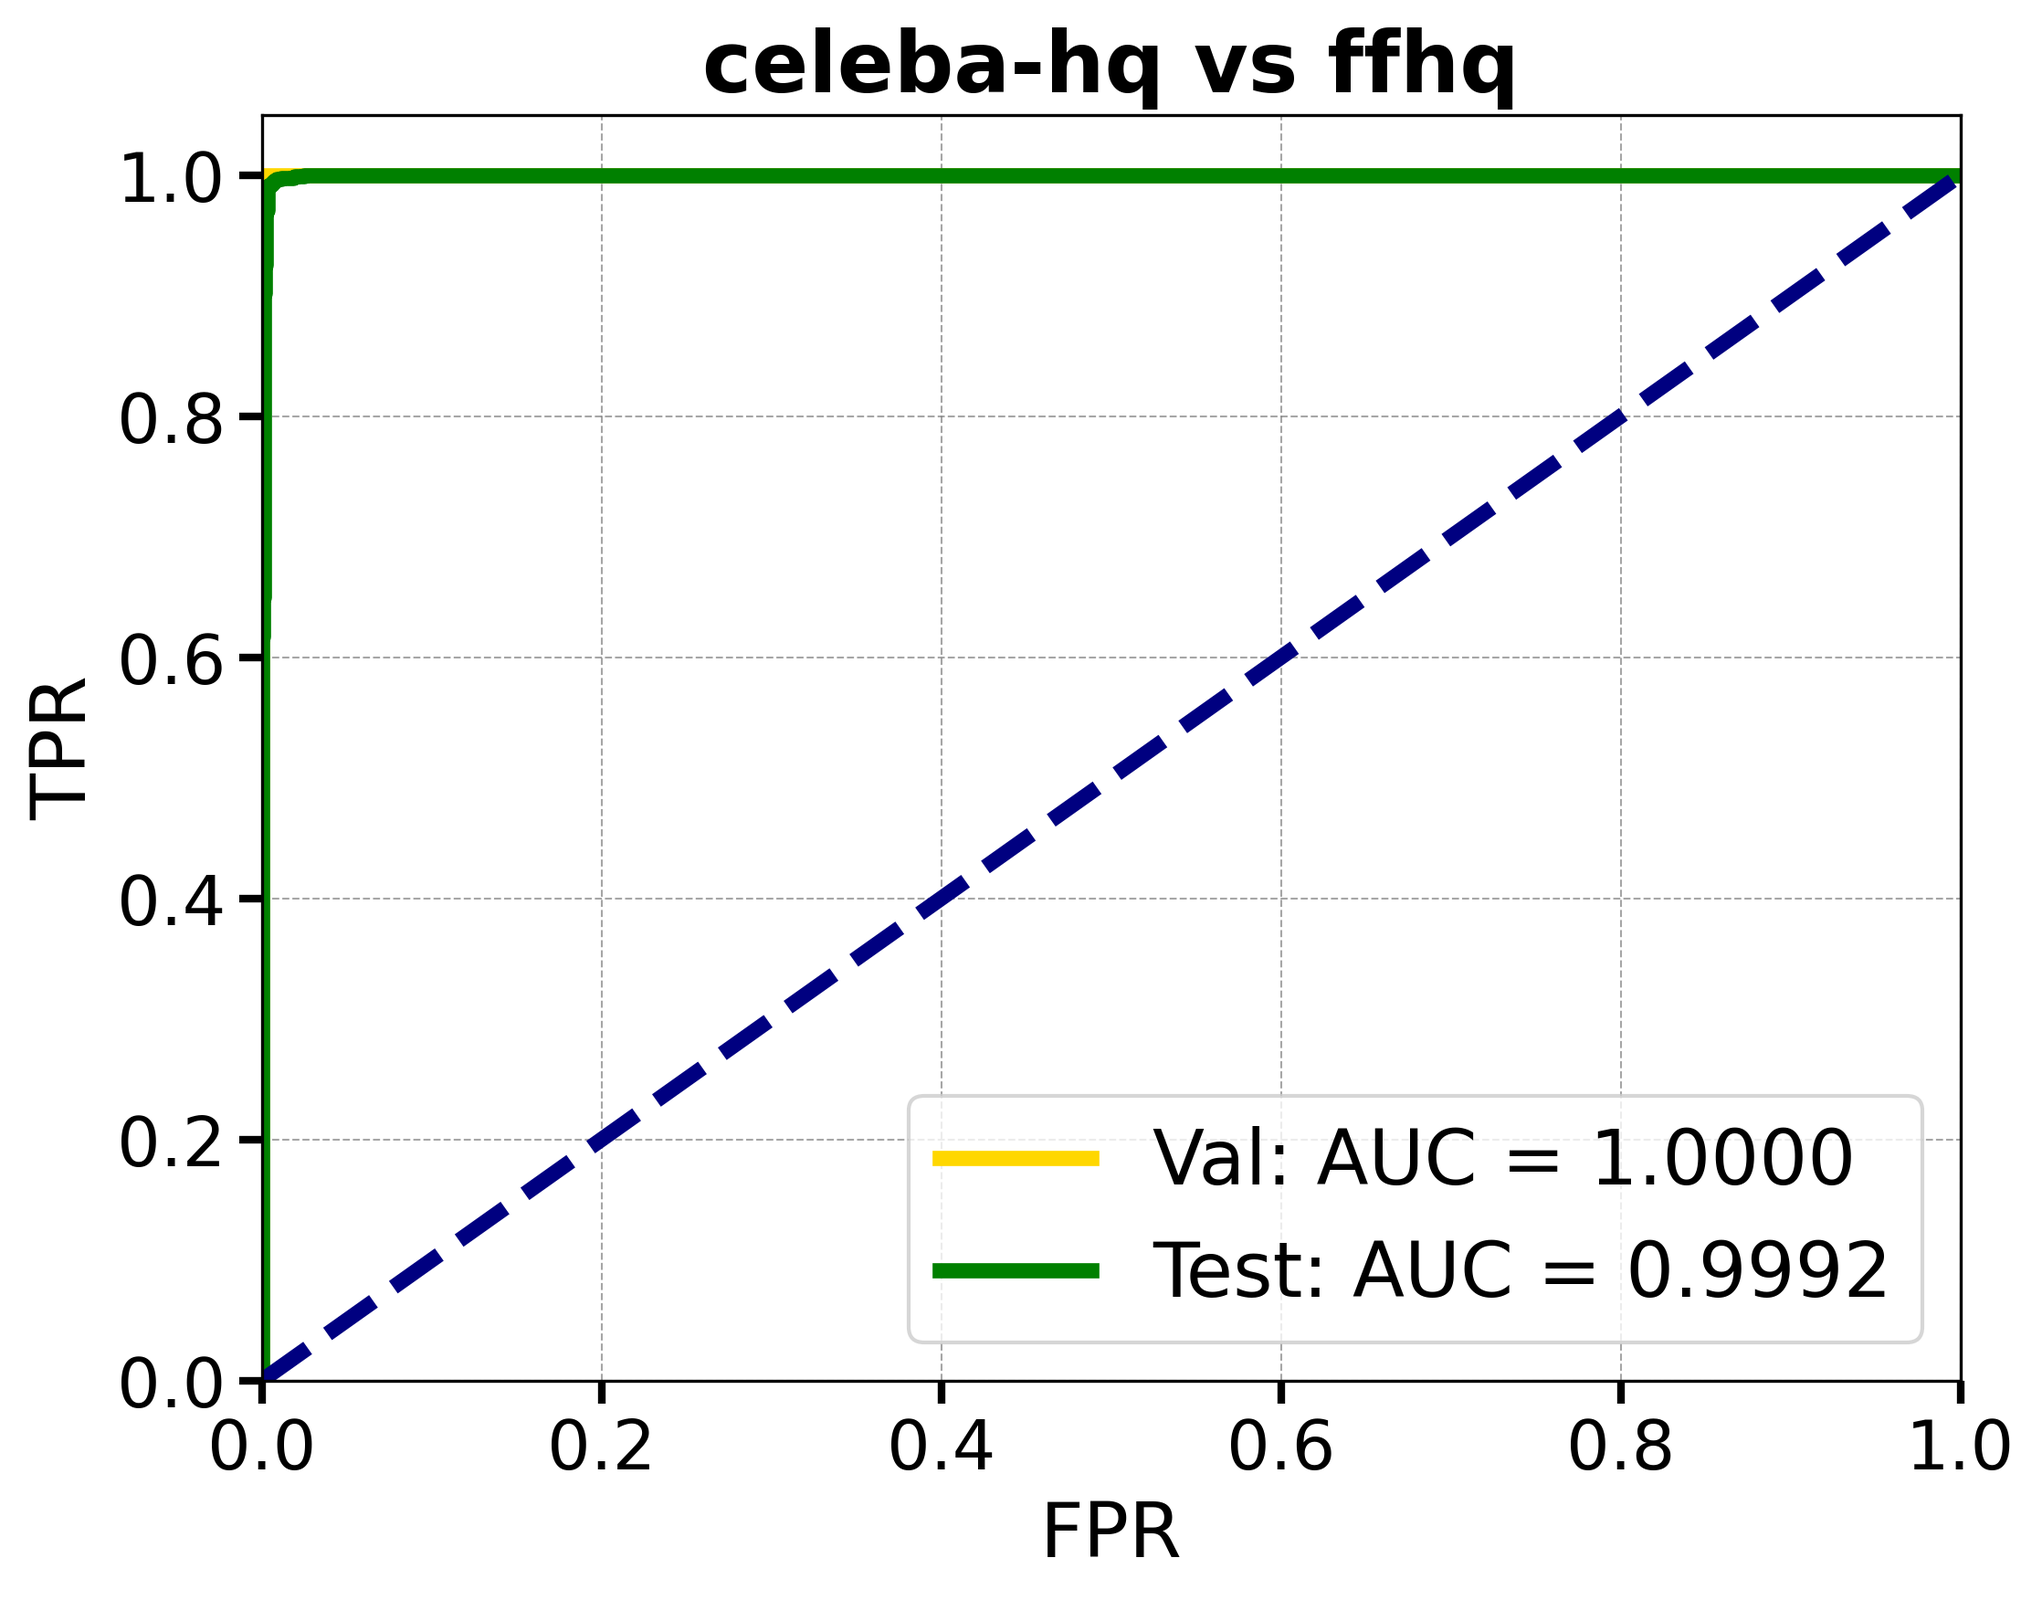
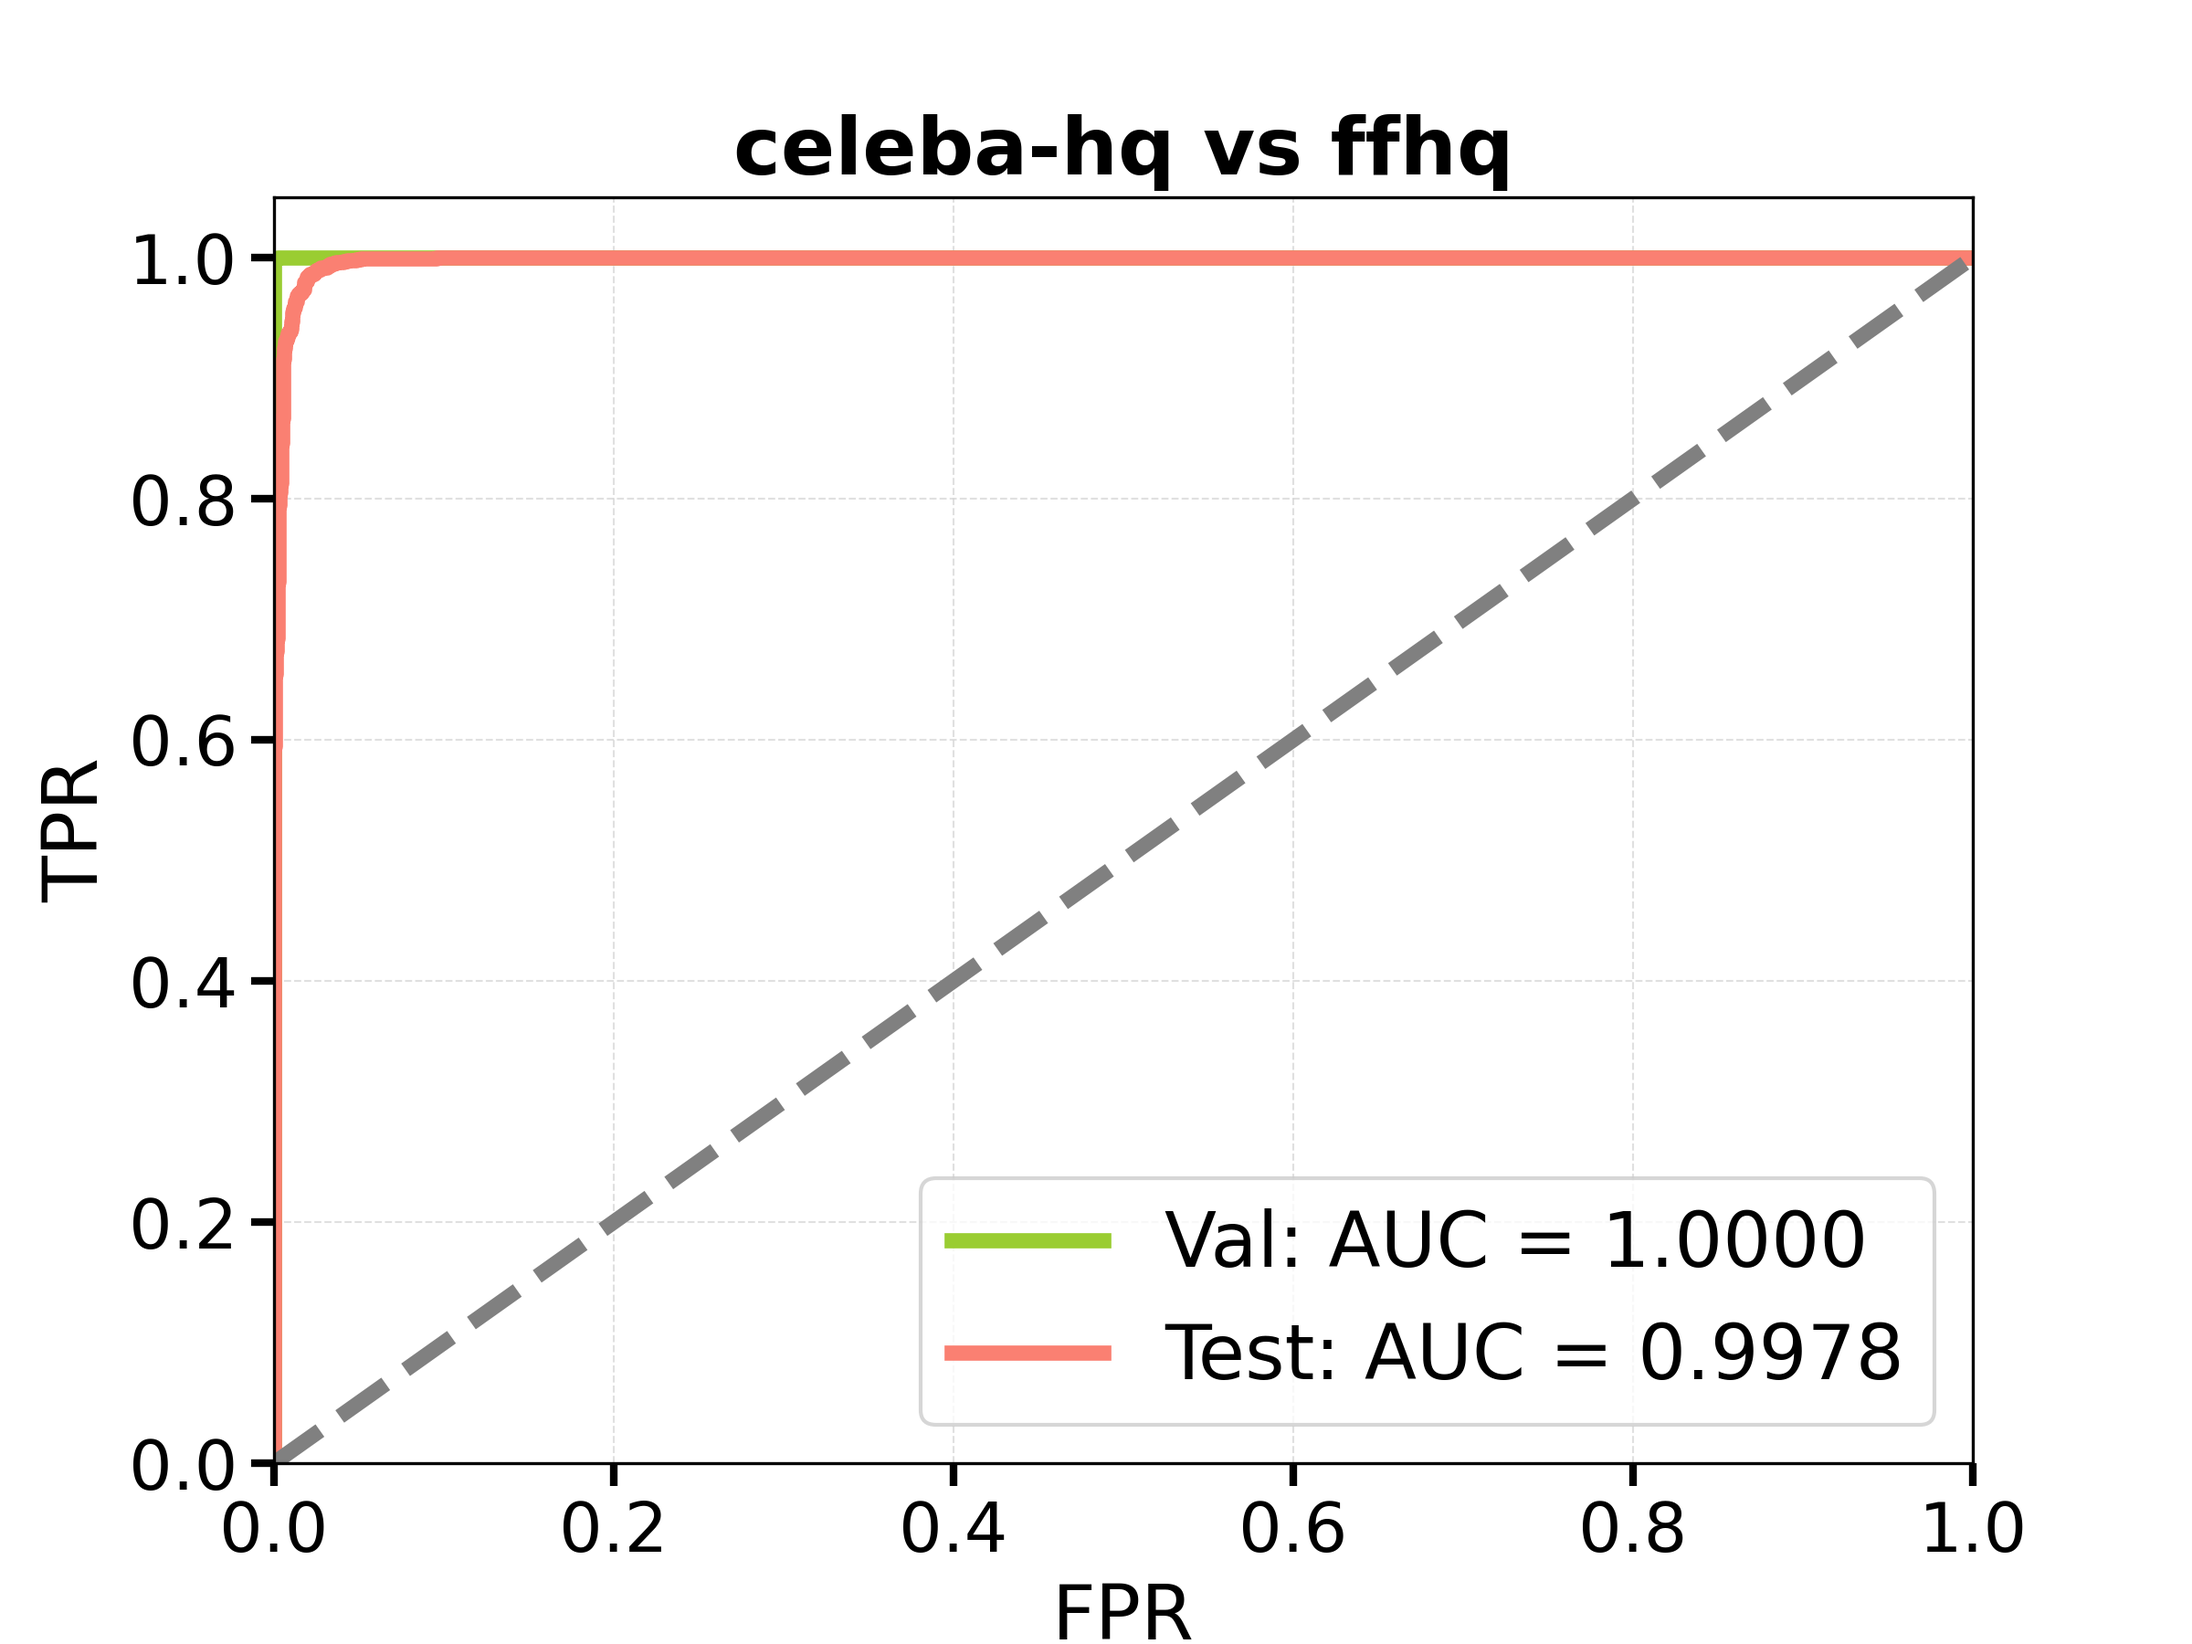
[feat] add results of visualization

diff --git a/diffusers/scripts/test_clip_emb.py b/diffusers/scripts/test_clip_emb.py
@@ -117,7 +117,7 @@ def visualize_embeddings_3d(p, embeddings, labels, class_names, folder_names, fo
     print(f"True Negative (TN): {tn}")
     print(f"False Negative (FN): {fn}")
 
-    ax.legend(fontsize=18, markerscale=5, loc='lower left')
+    ax.legend(fontsize=20, markerscale=5, loc='lower left')
     for axis in [ax.xaxis, ax.yaxis, ax.zaxis]:
         axis.set_major_locator(plt.MaxNLocator(4))
     
@@ -126,18 +126,18 @@ def visualize_embeddings_3d(p, embeddings, labels, class_names, folder_names, fo
 def create_multiple_visualizations(all_embeddings_list, all_labels_list, all_classes_list, all_folders_list, folder_labels_list, output_path, title):
     plt.rcParams.update({'font.size': 16})  # Slightly reduced font size
     
-    fig = plt.figure(figsize=(25, 5.5))  # Increased height slightly to accommodate the title
+    fig = plt.figure(figsize=(25, 6))  # Increased height slightly to accommodate the title
     
     for i in range(5):
         ax = fig.add_subplot(1, 5, i+1, projection='3d')
         visualize_embeddings_3d(i, all_embeddings_list[i], all_labels_list[i], all_classes_list[i], all_folders_list[i], folder_labels_list[i], ax)
 
         subplot_label = string.ascii_lowercase[i]
-        ax.text2D(0.5, -0.1, f'({subplot_label})', transform=ax.transAxes, fontsize=20, fontweight='bold')
+        ax.text2D(0.5, -0.1, f'({subplot_label})', transform=ax.transAxes, fontsize=24, fontweight='bold')
     
     plt.tight_layout(pad=0.5, h_pad=0.5, w_pad=0.5)  # Reduced padding
     plt.subplots_adjust(top=0.92, bottom=0.16)  # Adjusted top margin to make room for the title
-    fig.suptitle(title, fontsize=24, y=0.97)  # Add the overall title
+    fig.suptitle(title, fontsize=27, y=0.97)  # Add the overall title
     plt.savefig(output_path, dpi=300, bbox_inches='tight')  # Use tight bounding box
     plt.close(fig)
     print(f"Visualization saved to {output_path}")

diff --git a/diffusers/scripts/train_convnext.py b/diffusers/scripts/train_convnext.py
@@ -182,9 +182,9 @@ def load_model(path):
 
 def plot_roc_curve(train_fpr, train_tpr, train_roc_auc, eval_fpr, eval_tpr, eval_roc_auc, train_folder1, train_folder2, eval_folder1, eval_folder2, output_path):
     plt.figure(figsize=(8, 6))
-    plt.plot(train_fpr, train_tpr, color='gold', lw=4, label=f'Val: AUC = {train_roc_auc:.4f}')
-    plt.plot(eval_fpr, eval_tpr, color='green', lw=4, label=f'Test: AUC = {eval_roc_auc:.4f}')
-    plt.plot([0, 1], [0, 1], color='navy', lw=4, linestyle='--')
+    plt.plot(train_fpr, train_tpr, color='yellowgreen', lw=4, label=f'Val: AUC = {train_roc_auc:.4f}')
+    plt.plot(eval_fpr, eval_tpr, color='salmon', lw=4, label=f'Test: AUC = {eval_roc_auc:.4f}')
+    plt.plot([0, 1], [0, 1], color='gray', lw=4, linestyle='--')
     plt.xlim([0.0, 1.0])
     plt.ylim([0.0, 1.05])
     plt.xlabel('FPR', fontsize=20)
@@ -193,16 +193,17 @@ def plot_roc_curve(train_fpr, train_tpr, train_roc_auc, eval_fpr, eval_tpr, eval
 
     title = f"{os.path.basename(train_folder1)[:-5]} vs {os.path.basename(train_folder2)[:-5]}"
     wrapped_title = "\n".join(textwrap.wrap(title, width=60))
-    plt.title(wrapped_title, fontsize=22, fontweight='bold')
+    plt.title(wrapped_title, fontsize=21, fontweight='bold')
 
 
     plt.tick_params(axis='both', which='major', labelsize=18, width=2, length=6)
     plt.xticks(np.arange(0, 1.1, 0.2))
     plt.yticks(np.arange(0, 1.1, 0.2))
-    plt.grid(which='major', linestyle='--', linewidth=0.5, color='grey', alpha=0.7)
+    plt.grid(which='major', linestyle='--', linewidth=0.5, color='lightgray', alpha=0.7)
 
-    plt.savefig(output_path, dpi=300, bbox_inches='tight')
+    plt.savefig(output_path, dpi=300)
     plt.close()
+
 
 def main(input, train_folder1, train_folder2, eval_folders, num_epochs, batch_size, learning_rate, output_path, model_path, load_saved_model):
     # Load training data
